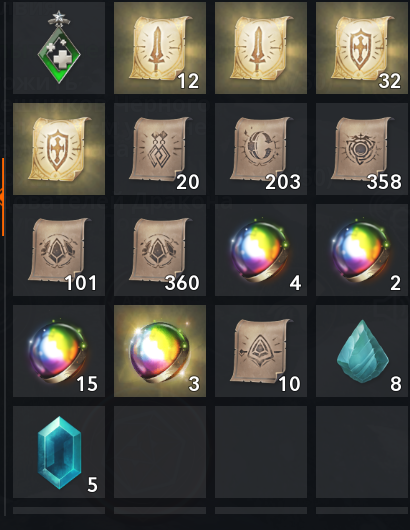
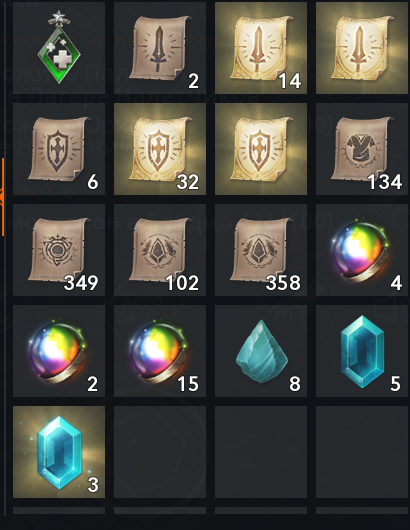
Добавлен автокрафт камней для зелени

diff --git a/Alchemy/rolls.py b/Alchemy/rolls.py
@@ -713,6 +713,19 @@ class Image:
 
         return int(amount_of_adena)
 
+    def check_possible_to_craft(self) -> bool:
+        self.take_screenshot(f'{PATH_TO_ALCHEMY}\\imgs\\amount_of_adena.png', (1580, 923, 1581, 924))
+        color = self.get_main_color(f'{PATH_TO_ALCHEMY}\\imgs\\amount_of_adena.png')
+
+        if 95 <= color[0] <= 115 and 40 <= color[1] <= 60 and 0 <= color[1] <= 15:
+            return False
+        return True
+
+    def check_lowest_price_for_each(self) -> bool:
+        self.take_screenshot(f'{PATH_TO_ALCHEMY}\\imgs\\is_lowest_price_for_each.png', (1745, 360, 1770, 393))
+        return image.matching(f'{PATH_TO_ALCHEMY}\\imgs\\is_lowest_price_for_each.png',
+                              f'{PATH_TO_ALCHEMY}\\imgs\\lowest_price_for_each.png')
+
 
 ahk = AHKActions()
 image = Image()
@@ -2743,6 +2756,51 @@ class Rolls():
             return False
 
         self._go_to_craft_menu()
+
+        time.sleep(1)
+
+        if not image.check_possible_to_craft():
+            self.go_to_craft_stone()
+            time.sleep(1)
+            if image.check_possible_to_craft():
+                self.set_max_amount_in_craft_menu()
+                self.craft()
+                time.sleep(6)
+                for _ in range(5):
+                    self.skip()
+            else:
+                self.go_to_craft_stone()
+                time.sleep(4)
+
+                ahk.mouse_actions('move', x=520, y=450)
+                ahk.mouse_actions('click')
+                time.sleep(3)
+
+                self.set_price_for_each()
+
+                while not image.check_lowest_price_for_each():
+                    self.set_price_for_each()
+                    time.sleep(0.2)
+
+                ahk.mouse_actions('move', x=520, y=450)
+                ahk.mouse_actions('click')
+
+                ahk.mouse_actions('move', x=970, y=920)
+                ahk.mouse_actions('click')
+
+                ahk.mouse_actions('move', x=970, y=900)
+                ahk.mouse_actions('click')
+
+                ahk.mouse_actions('esc')
+
+                self.set_max_amount_in_craft_menu()
+                self.craft()
+                self.skip()
+
+                ahk.mouse_actions('esc')
+
+                self._go_to_craft_menu()
+
         for i in range(amount):
             time.sleep(1)
             ahk.mouse_actions('move', x=1670, y=940)
@@ -2759,6 +2817,30 @@ class Rolls():
             ahk.mouse_actions('click')
 
         ahk.mouse_actions('esc')
+
+    def go_to_craft_stone(self):
+        ahk.mouse_actions('move', x=1400, y=400)
+        ahk.mouse_actions('click')
+
+        time.sleep(0.5)
+
+        ahk.mouse_actions('move', x=1775, y=400)
+        ahk.mouse_actions('click')
+    def set_price_for_each(self):
+        ahk.mouse_actions('move', x=1700, y=350)
+        ahk.mouse_actions('click')
+
+    def craft(self):
+        ahk.mouse_actions('move', x=1545, y=950)
+        ahk.mouse_actions('click')
+
+    def skip(self):
+        ahk.mouse_actions('move', x=1010, y=950)
+        ahk.mouse_actions('click')
+
+    def set_max_amount_in_craft_menu(self):
+        ahk.mouse_actions('move', x=1050, y=950)
+        ahk.mouse_actions('click')
 
     def _go_to_craft_menu(self):
         ahk.mouse_actions('move', x=1775, y=85)

diff --git a/123.py b/123.py
@@ -1,38 +1,4 @@
-import asyncio
-from mitmproxy import options
-from mitmproxy.tools.dump import DumpMaster
-from mitmproxy.http import HTTPFlow
-
-import json
-
-class MyAddon:
-    def __init__(self):
-        pass
-
-    def request(self, flow: HTTPFlow) -> None:
-        print("Request Headers:")
-        if 'https://ncus1-api.g.nc.com/trade/v1.0/me/sales?' in flow.request.url:
-            print(dict(flow.request.headers))
-            with open('Autosell\\market_header.json', 'w', encoding='utf-8') as dfdf:
-                json.dump(dict(flow.request.headers), dfdf)
-            #return flow.request.headers
-        #for k, v in flow.request.headers.items():
-        #    print(f"{k}: {v}")
-
-    #def response(self, flow: HTTPFlow) -> None:
-    #    print("Response Headers:")
-    #    for k, v in flow.response.headers.items():
-    #        print(f"{k}: {v}")
-
-async def start_proxy():
-    opts = options.Options(listen_host='127.0.0.1', listen_port=8080)
-    m = DumpMaster(opts, with_termlog=False, with_dumper=False)
-    m.addons.add(MyAddon())
-    try:
-        await m.run()
-    except KeyboardInterrupt:
-        m.shutdown()
-
-if __name__ == "__main__":
-    loop = asyncio.get_event_loop()
-    loop.run_until_complete(start_proxy())
+my_dict = {"a": 4, "b": 2, "c": 3}
+sorted_dict = sorted(my_dict.items(), key=lambda x: x[1])
+sorted_dict = {sorted_dict[0][0]: sorted_dict[0][1]}
+print(sorted_dict)

diff --git a/Alchemy/AlchemyBot.py b/Alchemy/AlchemyBot.py
@@ -1079,6 +1079,7 @@ def run(hwnd):
                 case None:
                     roll = prev_roll
 
+
             items_list, accesory_items_list, roll_amount, adena_wasted, diamonds_wasted, items_bought, gained_slot, gained_item, wasted_time, need_80 = eval(roll + f'({items_list}, {accesory_items_list}, {str(roll_amount)}, {str(hwnd)})')
             print('items list is ',items_list)
             print('accesory_items_list is ', accesory_items_list)
